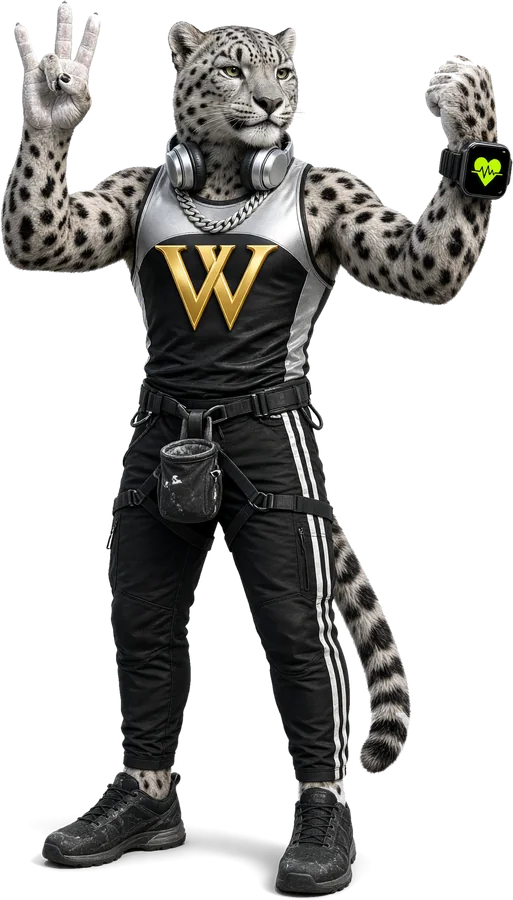
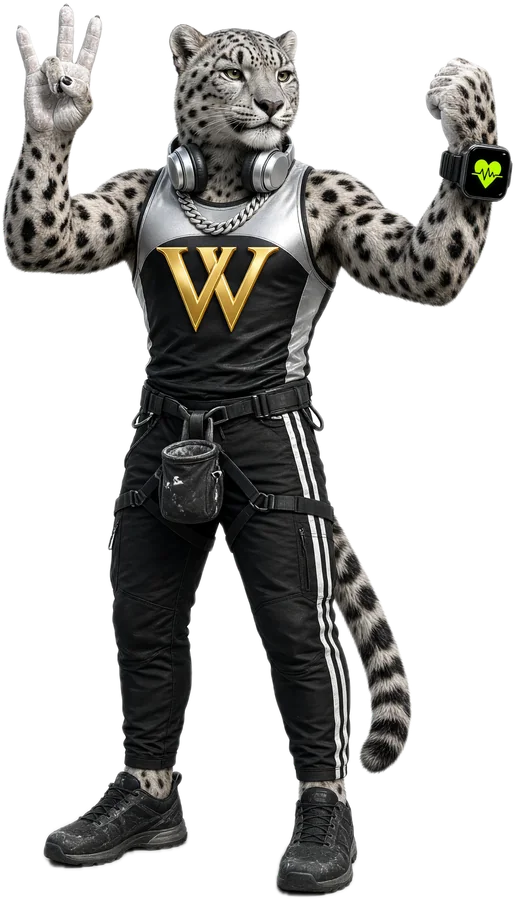
fix(visual): every persona makes the same VVake sign (index, middle, ring up); clean cut-outs via Apple Vision subject lifting (no white left between arms and body)

diff --git a/src/lib/personas.ts b/src/lib/personas.ts
@@ -6,26 +6,26 @@ import type { VVakerSport } from "@/components/vvaker/traits";
  * One per sport; the persona generator builds the exact prompt for a player's own combination.
  */
 export const PERSONAS: Record<VVakerSport, { animal: string; w: number; h: number }> = {
-  runner: { animal: "cheetah", w: 427, h: 900 },
-  walker: { animal: "golden retriever", w: 402, h: 900 },
-  cyclist: { animal: "greyhound", w: 544, h: 900 },
-  lifter: { animal: "gorilla", w: 518, h: 900 },
-  boxer: { animal: "elephant", w: 599, h: 900 },
-  yogi: { animal: "flamingo", w: 415, h: 900 },
-  baller: { animal: "tabby cat", w: 427, h: 900 },
-  coder: { animal: "raccoon", w: 506, h: 900 },
-  martial: { animal: "giant panda", w: 592, h: 900 },
-  paddler: { animal: "eagle", w: 687, h: 900 },
-  meditator: { animal: "snowy owl", w: 605, h: 900 },
-  roller: { animal: "red fox", w: 542, h: 900 },
-  skater: { animal: "arctic fox", w: 564, h: 900 },
+  runner: { animal: "cheetah", w: 410, h: 900 },
+  walker: { animal: "golden retriever", w: 406, h: 900 },
+  cyclist: { animal: "greyhound", w: 543, h: 900 },
+  lifter: { animal: "gorilla", w: 521, h: 900 },
+  boxer: { animal: "elephant", w: 501, h: 900 },
+  yogi: { animal: "flamingo", w: 416, h: 900 },
+  baller: { animal: "tabby cat", w: 473, h: 900 },
+  coder: { animal: "raccoon", w: 512, h: 900 },
+  martial: { animal: "giant panda", w: 558, h: 900 },
+  paddler: { animal: "eagle", w: 684, h: 900 },
+  meditator: { animal: "snowy owl", w: 649, h: 900 },
+  roller: { animal: "red fox", w: 547, h: 900 },
+  skater: { animal: "arctic fox", w: 568, h: 900 },
   swimmer: { animal: "otter", w: 385, h: 900 },
-  hiker: { animal: "grizzly bear", w: 567, h: 900 },
-  climber: { animal: "snow leopard", w: 513, h: 900 },
-  racket: { animal: "hare", w: 540, h: 900 },
+  hiker: { animal: "grizzly bear", w: 503, h: 900 },
+  climber: { animal: "snow leopard", w: 515, h: 900 },
+  racket: { animal: "hare", w: 533, h: 900 },
   dancer: { animal: "zebra", w: 674, h: 900 },
-  skier: { animal: "husky", w: 610, h: 900 },
-  footballer: { animal: "lion", w: 470, h: 900 },
+  skier: { animal: "husky", w: 619, h: 900 },
+  footballer: { animal: "lion", w: 449, h: 900 },
 };
 
 export const personaSrc = (sport: VVakerSport) => `/personas/${sport}.webp`;

diff --git a/src/lib/personaPrompt.ts b/src/lib/personaPrompt.ts
@@ -305,7 +305,7 @@ export function buildPersonaPrompt(p: Persona): string {
     `VVake Fit streetwear kit: ${TOPS[p.top]} in black and chrome-silver with a large glossy gold 3D "VV" monogram on the chest (two identical capital V letters side by side, their inner arms touching so together they form a W), silver Cuban link chain, silver over-ear headphones resting around the neck, ${HEADWEAR[p.headwear]}, ${BOTTOMS[p.bottoms]} with two white side stripes, ${shoes}.`,
     `A black sport smartwatch on the left wrist with a glowing screen showing the VVake app: a neon lime heart-rate line and a heart icon.`,
     extras ? `Sport elements: ${extras}.` : "",
-    `One hand raised at shoulder height making the VVake sign: three fingers (index, middle and ring) raised straight up side by side in a row, thumb folded over the little finger, palm facing the camera, clearly readable.`,
+    `One hand raised at shoulder height making the VVake sign: exactly three fingers raised straight up and pressed together side by side in a row (the index, middle and ring fingers), the little finger folded down and held under the thumb, palm facing the camera, clearly readable. Not a peace sign, not an OK sign, not four fingers.`,
     `Colour palette: black, chrome silver and gold, with neon lime (#ccff00) and a touch of hot pink (#ff3d6e) as accents.`,
     `Isolated on a pure white seamless background, soft even studio lighting, subtle contact shadow under the character, centred with margin around the character, portrait 2:3, ultra detailed, sharp focus.`,
     `No real brand logos or trademarks (no swoosh, no jumpman, no three stripes, no club crests), no text other than "VV", anatomically clean hands with the correct number of fingers, no extra limbs, no background scenery, no floating props, not cartoon, not anime, not blurry, no watermark.`,
